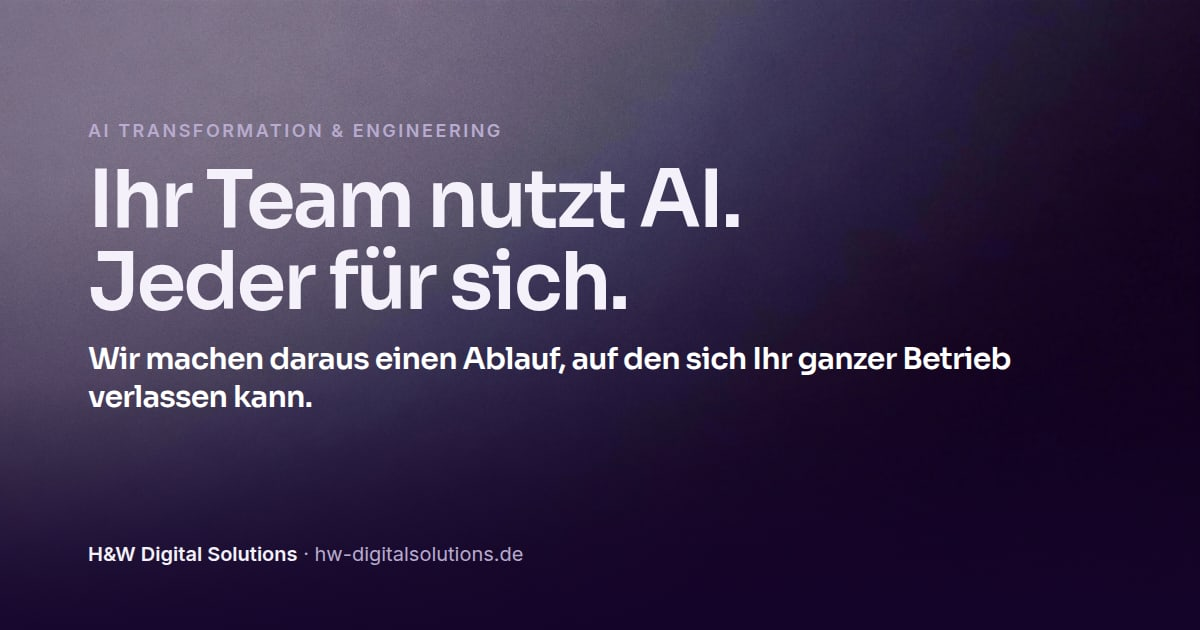
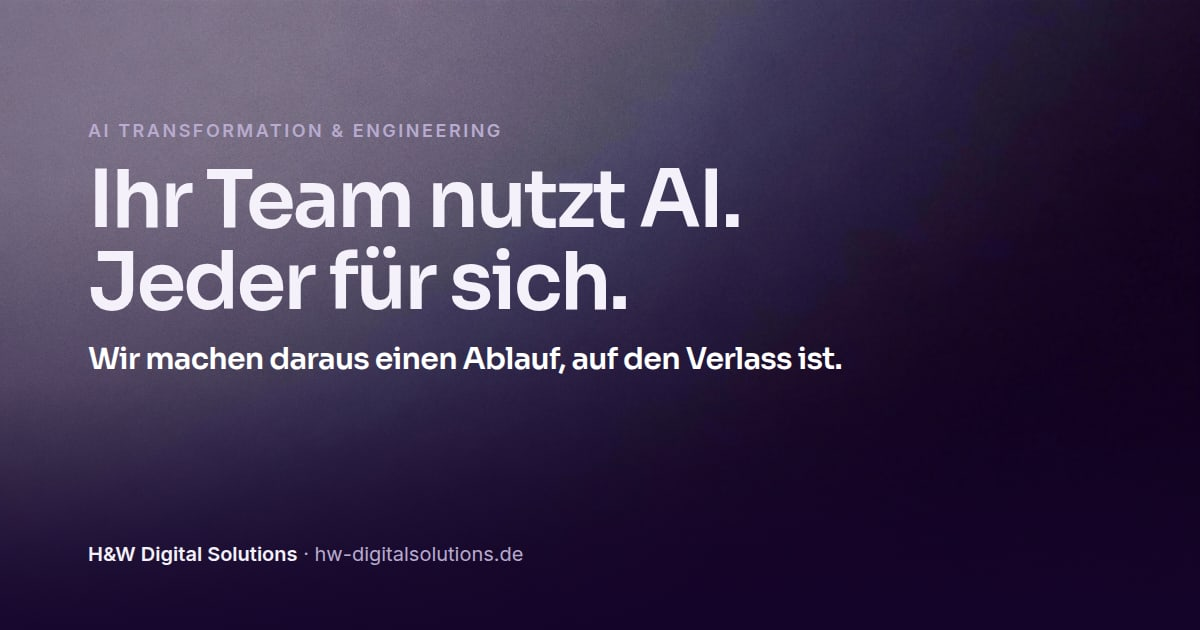
Proof scene: tailoring still life; tighter hero claim and founder description
Founder feedback: a new visual for professionalism, seniority and
tailored senior consulting rather than mass business. The proof scene
now shows a tailoring still life (bolt of fabric, measuring tape,
chalk, shears, pattern paper) as an isolated render with alpha,
captioned "Zugeschnitten auf Ihren Betrieb." A filed-key variant was
rendered and rejected. Hero claim shortened to "Wir machen daraus einen
Ablauf, auf den Verlass ist."; hero description now carries the
founders' wording on sovereignty, set in the site's Sie form. OG image
updated, docs updated.

Claude-Session: https://claude.ai/code/session_01WNik2r3KY3SBBWXV1w1yzj

Changed region(s): [[0.555, 0.5429, 0.8633, 0.6032], [0.0617, 0.6032, 0.2775, 0.6635]]

diff --git a/hw-site/src/data/content.ts b/hw-site/src/data/content.ts
@@ -35,10 +35,11 @@ export const hero = {
   // englische Motto „From Process to Production.“ war den Gründern zu corporate.
   // Claim v3: löst die Headline auf, ohne Abstraktum.
   // Claim v4: die Rolle danach, ohne Parole.
-  claim: "Wir machen daraus einen Ablauf, auf den sich Ihr ganzer Betrieb verlassen kann.",
+  claim: "Wir machen daraus einen Ablauf, auf den Verlass ist.",
   // v5 (2026-09-18): ein Satz, der Win zum Hook („der eine Ablauf“ statt Meeting-Gerede).
   // v6: konkret, wo und wie; kein „dort, wo“.
-  description: "Mit den richtigen Quellen, Regeln und Anbindungen. Und wir bleiben, bis es läuft.",
+  // v7 (2026-09-18, Gründer-Wortlaut, in die Sie-Form der Site gesetzt).
+  description: "Mit den richtigen Quellen, Regeln und Anbindungen. Wir begleiten Sie, bis es läuft. Holen Sie sich Ihre Souveränität zurück und setzen Sie Ihre Vision in die Tat um, ohne jedes Mal auf Dienstleister oder Agenturen angewiesen zu sein.",
   primaryCta: { label: "Kostenloses Erstgespräch", href: "/kontakt" },
   secondaryCta: { label: "So arbeiten wir", href: "/vorgehen" },
 } as const;
@@ -58,7 +59,9 @@ export const expertise = {
   text: "Erfahrung, Zeit und echtes Interesse an Ihrem Betrieb. So verstehen wir Beratung.",
   // Bildunterschrift der Tischszene (v2, 2026-09-18, Gründer: „Am Tisch, nicht im Ticket“ war
   // das richtige Argument im falschen Muster). Schlichter Satz, kein Kontrast-Slogan.
-  caption: "Sie sitzen mit den Gründern am Tisch.",
+  // v3 (2026-09-18, Gründer: neuer Ansatz statt Tischszene; Motiv Maßschneiderei für
+  // „zugeschnittenes Senior Consulting statt Massengeschäft“).
+  caption: "Zugeschnitten auf Ihren Betrieb.",
   certsLabel: "Zertifikate im Gründerteam.",
   cta: { label: "Das Gründerteam", href: "/unternehmen#team" },
   secondary: { label: "Alle Nachweise", href: "/unternehmen#nachweise" },

diff --git a/hw-site/.agents/product-marketing.md b/hw-site/.agents/product-marketing.md
@@ -433,6 +433,8 @@ Konkrete Szenarien dürfen genutzt werden, wenn sie als Beispiel gekennzeichnet 
 
 ## Changelog
 *Newest first. One line per revision: what changed and why.*
+- v42 (2026-09-18) — Hero-Beschreibung im Gründer-Wortlaut (Original in Du-Plural, für die Site in die Sie-Form gesetzt): „Mit den richtigen Quellen, Regeln und Anbindungen. Wir begleiten Sie, bis es läuft. Holen Sie sich Ihre Souveränität zurück und setzen Sie Ihre Vision in die Tat um, ohne jedes Mal auf Dienstleister oder Agenturen angewiesen zu sein.“
+- v41 (2026-09-18) — Hero-Claim kürzer (Gründer: „gut, aber prägnanter“): „Wir machen daraus einen Ablauf, auf den Verlass ist.“, Beschreibung „Mit den richtigen Quellen, Regeln und Anbindungen. Wir bleiben, bis es läuft.“ Proof-Szene mit Maßschneiderei-Motiv (Gründer: Visual für Professionalität, Seniorität und zugeschnittenes Senior Consulting statt Massengeschäft): Bildunterschrift „Zugeschnitten auf Ihren Betrieb.“ Alternativen aus dem Vorschlag: gefeilter Schlüssel (gerendert, verworfen), Architekturmodell, Meisterwerkbank.
 - v40 (2026-09-18) — Hero v10 auf den Kern-Pain (Gründer: Excel- und PDF-Beispiel „zu speziell“, kürzer, weniger abstrakt, direkt hitten; Pain: AI unstrukturiert und über Mitarbeiter verstreut, jeder macht sein eigenes Ding, nichts operationalisiert, kaum jemand weiß, wie man AI richtig anleitet und welche Quellen, Kontext und Anbindungen sie für ein belastbares Ergebnis braucht): „Ihr Team nutzt AI. Jeder für sich.“, Claim „Wir machen daraus einen Ablauf, auf den sich Ihr ganzer Betrieb verlassen kann.“, Beschreibung „Mit den richtigen Quellen, Regeln und Anbindungen. Und wir bleiben, bis es läuft.“ Einwand 1 dazu geschärft: „Jeder fragt die AI anders. Und keiner weiß, ob das Ergebnis stimmt.“
 - v39 (2026-09-18) — Kontrast-Slogans entfernt (Gründer: „Am Tisch, nicht im Ticket“ ist „das richtige Argument, aber die Formulierung ist nicht gut“): Bildunterschrift der Proof-Szene jetzt „Sie sitzen mit den Gründern am Tisch.“; Footer-Claim „Kein Pilotprojekt. Ihr Tagesgeschäft.“ durch „AI, die Ihr Team jeden Tag nutzt.“ ersetzt (gleiches Muster). Regel Copy-Rhythmus gilt damit auch für Bildunterschriften und Claims: kein „nicht X, sondern Y“, kein „Kein X. Ihr Y.“
 - v38 (2026-09-18) — Proof-Szene als Freisteller (Gründer: Richtung stimmt, aber „hohe Qualität, professionell, minimalistisch, schwebend auf hellem Background, kein eigener deckender Background“): Tisch, drei Stühle, Kaffee, Notizbuch als isoliertes Render ohne Kasten, weicher Schatten auf dem Papier.

diff --git a/hw-site/DESIGN.md b/hw-site/DESIGN.md
@@ -213,6 +213,7 @@ Alle Kontrastwerte wurden am 2026-09-17 mit einem kleinen Node-Skript nach WCAG 
 
 | Datum | Änderung |
 |---|---|
+| 2026-09-18 | Proof-Szene: Motiv Maßschneiderei (Stoffballen, Maßband, Kreide, Schere, Schnittmuster) statt Tischszene, Gründer: Professionalität, Seniorität, „zugeschnittenes Senior Consulting statt Massengeschäft wie KPMG oder EY“. Freisteller wie zuvor, Bildunterschrift „Zugeschnitten auf Ihren Betrieb.“ Verworfen: gefeilter Schlüssel mit Schloss (liest sich als Spielzeug). |
 | 2026-09-18 | Proof-Szene als Freisteller (Gründer: „schwebend auf hellem Background, kein eigener deckender Background; hohe Qualität, professionell, minimalistisch“): die Tischszene als isoliertes Render auf Weiß erzeugt (GPT Image 2.5), 4K-Upscale, Hintergrund per Higgsfield entfernt, als WebP mit Alpha; kein Kasten mehr, `filter: drop-shadow` trägt das Objekt, Bildunterschrift „Am Tisch, nicht im Ticket.“ als gedämpfter Text darunter. Regel: Bildkarten mit eigener dunkler Fläche bleiben den Showcases vorbehalten; Proof- und Erklärvisuals schweben auf Papier. |
 | 2026-09-18 | Einwand-Bänder: Visualisierung mit `margin-left: -6%` an die Zitatkante gezogen (die SVGs tragen links einen Innenrand). |
 | 2026-09-18 | Proof-Szene „Wer bei uns baut“ neu (Gründer: „muss richtig hitten und professionell aussehen; kein Body Leasing, sondern seasoned experts, die auf Sie eingehen; Expertise und Wissen gepaart mit Kommunikation und Hospitality“): statt der Linienzeichnung „Sie im Ring“ eine Bildkarte in der Clay-Bildsprache (runder Besprechungstisch, drei Stühle nah beieinander, Kaffee, Notizbuch, Karaffe; GPT Image 2.5, 4K-Upscale, `src/assets/expertise.webp`) mit Bildunterschrift „Am Tisch, nicht im Ticket.“; Headline größer (`clamp(2rem, 3.6vw, 3.2rem)`), Spalten 1 / 1,05, Zertifikate unter der Karte. `PromiseViz` Art `customer` bleibt im Code, ist aber ohne Verwendung. |
